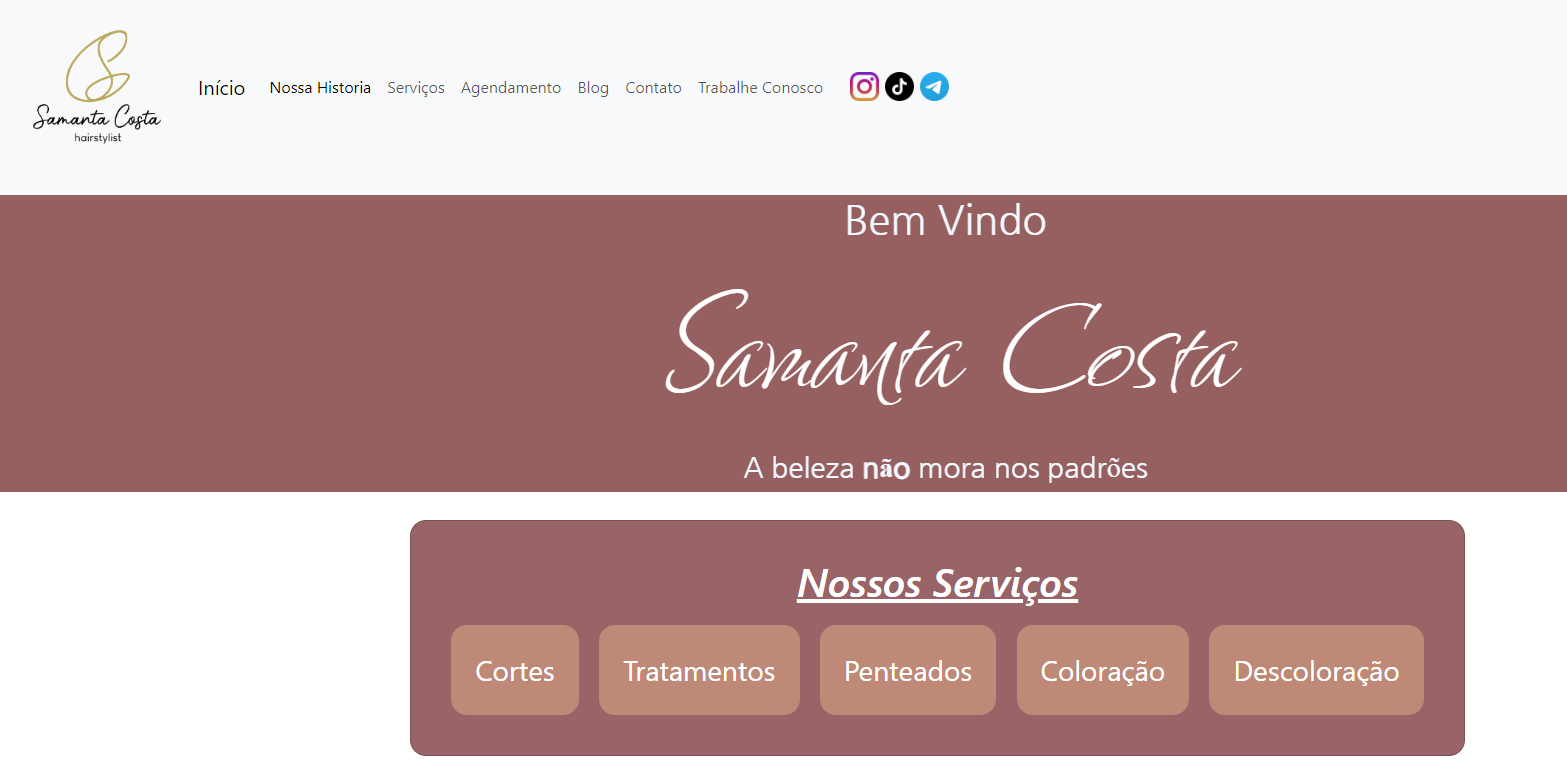
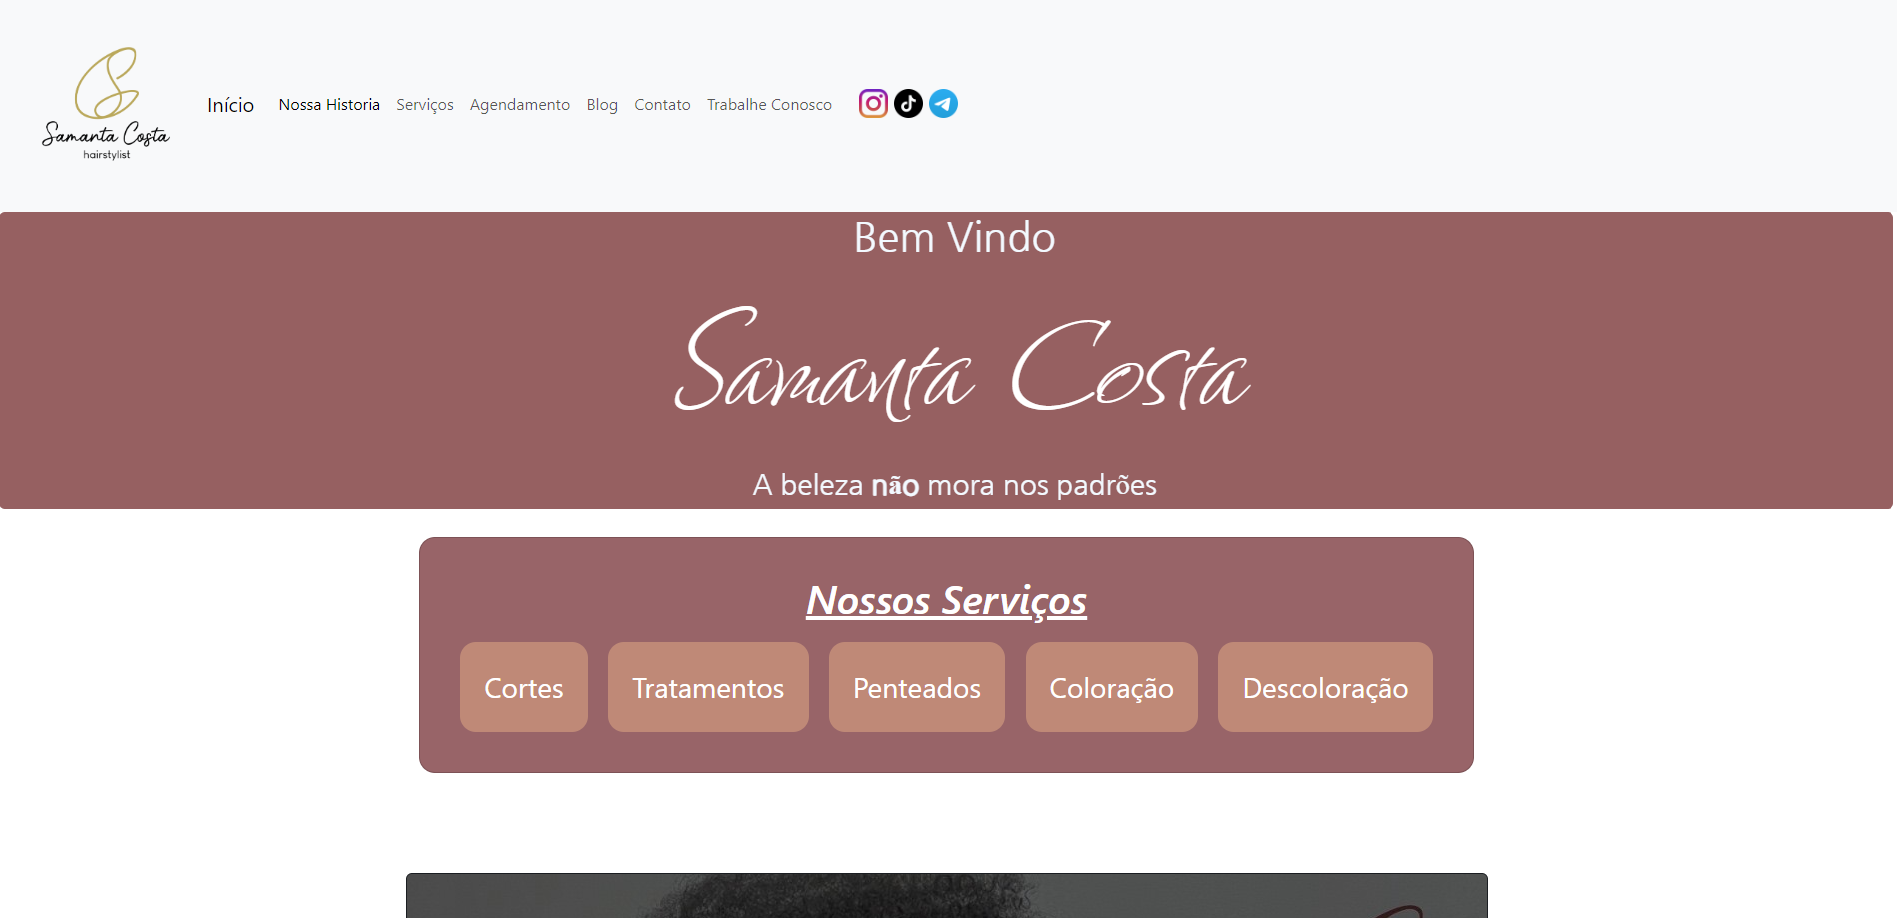
added main card

diff --git a/index.html b/index.html
@@ -74,9 +74,22 @@
 
 <!-- Work section -->
 
-<div class="row row-cols-1 row-cols-md-2 g-4 p-3">
+<div class="col mt-2 p-3" id="card1">
+  <div class="card align-items-center justify-content-center">
+    <a href="https://site-88uh6wqe1-ramonsaguini.vercel.app/" target="_blank" alt=" Website samanta costa image">
+      <img src="./assets/img/lamp-app.png" class="card-img-top" alt="Website samanta costa image">
+    </a>
+      <div class="card-body">
+      <h5 class="card text-center text-bg-light mb-3">Samanta Costa WebSite</h5>
+      <p class="text-center"> Developed with:</p>
+      <p class="card-text"> HTML<img src="./assets/img/html.png" width="50"> & BootStrap <img src="./assets/img/bootstrap.svg" width="50"> </p>
+    </div>
+  </div>
+</div>
 
-  <!-- Card 1  -->
+
+<div class="row row-cols-1 row-cols-md-2 g-4 p-3">
+<!-- Card 2   -->
   <div class="col" id="card2">
     <div class="card align-items-center justify-content-center">
       <a href="https://site-88uh6wqe1-ramonsaguini.vercel.app/" target="_blank" alt=" Website samanta costa image">
@@ -90,23 +103,8 @@
     </div>
   </div>
 
-  <!-- Card 2 -->
-  <div class="col">
-    <div class="card align-items-center justify-content-center">
-      <a  href="https://ramonsaguini.github.io/turnOnTurnOffLamp/" target="_blank">
-      <img src="./assets/img/lamp.gif" class="card-img-top" alt="lamp app image">
-      <div class="card-body">
-      </a>
-        <h5 class="card text-center text-bg-light mb-3">Lamp App</h5>
-        <p class="text-center">Developed with: </p>
-        <p class="card-text"> HTML<img src="./assets/img/html.png" width="50"> 
-          CSS <img src="./assets/img/css-3.png" width="50"> 
-          & JavaScript <img src="./assets/img/js.png" width="50"></p>
-      </div>
-    </div>
-  </div>
-  <!-- Card 3 -->
-  <div class="col">
+  <!-- Card 3  -->
+  <div class="col" id="card3">
     <div class="card align-items-center justify-content-center">
       <a  href="https://ramonsaguini.github.io/turnOnTurnOffLamp/" target="_blank">
       <img src="./assets/img/lamp.gif" class="card-img-top" alt="lamp app image">
@@ -121,7 +119,7 @@
     </div>
   </div>
   <!-- Card 4 -->
-  <div class="col">
+  <div class="col" id="card4"> 
     <div class="card align-items-center justify-content-center">
       <a  href="https://ramonsaguini.github.io/turnOnTurnOffLamp/" target="_blank">
       <img src="./assets/img/lamp.gif" class="card-img-top" alt="lamp app image">
@@ -135,6 +133,21 @@
       </div>
     </div>
   </div>
+  <!-- Card 5 -->
+  <div class="col" id="card5">
+    <div class="card align-items-center justify-content-center">
+      <a  href="https://ramonsaguini.github.io/turnOnTurnOffLamp/" target="_blank">
+      <img src="./assets/img/lamp.gif" class="card-img-top" alt="lamp app image">
+      <div class="card-body">
+      </a>
+        <h5 class="card text-center text-bg-light mb-3">Lamp App</h5>
+        <p class="text-center">Developed with: </p>
+        <p class="card-text"> HTML<img src="./assets/img/html.png" width="50"> 
+          CSS <img src="./assets/img/css-3.png" width="50"> 
+          & JavaScript <img src="./assets/img/js.png" width="50"></p>
+      </div>
+    </div>
+  </div> 
 
 
 

diff --git a/assets/CSS/style.css b/assets/CSS/style.css
@@ -14,3 +14,6 @@ nav li:hover{
   background-color: rgb(174, 176, 176);
   border-radius: 5px;
 }
+.carousel-w{
+  max-width:1800px;
+}
